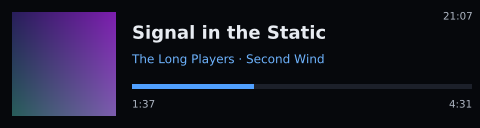
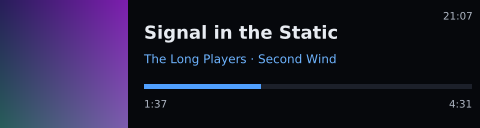
Let the cover art fill the panel's height (#8)
It sat in a 104 pixel square with margins around it; it now runs the full
128 pixels, flush with the left edge, which reads as a player rather than as
a thumbnail. The text beside it loses one character before it is shortened.

Claude-Session: https://claude.ai/code/session_01GQsPfj95fc25BmZD8WJofs

Changed region(s): [[0.0, 0.0, 0.7188, 1.0], [0.5312, 0.6562, 0.5625, 0.6875]]

diff --git a/src/render.rs b/src/render.rs
@@ -39,9 +39,10 @@ const VALUE_TOP: i32 = 33;
 const BAR_TOP: i32 = 68;
 const BAR_HEIGHT: u32 = 5;
 const COLUMN_GAP: i32 = 14;
-/// Side of the cover art, and of the square it is drawn in.
-pub const ART_SIZE: u32 = 104;
-const ART_TOP: i32 = 12;
+/// Side of the cover art: the panel's full height, flush with its left edge.
+pub const ART_SIZE: u32 = HEIGHT;
+/// Room between the cover and the text beside it.
+const ART_GAP: i32 = 16;
 const FAN_BAND_TOP: i32 = 88;
 /// The clock and weather column starts here.
 const RIGHT_COLUMN_LEFT: i32 = 318;
@@ -314,16 +315,12 @@ impl Dashboard {
     ) -> RgbImage {
         let mut canvas = RgbImage::from_pixel(WIDTH, HEIGHT, BACKGROUND);
         let image = &mut canvas;
-        let left = match art {
-            Some(art) => {
-                image::imageops::replace(image, art, i64::from(MARGIN + 4), i64::from(ART_TOP));
-                MARGIN + 4 + ART_SIZE as i32 + 16
-            }
-            None => {
-                rect(image, MARGIN + 4, ART_TOP, ART_SIZE, ART_SIZE, HEADER);
-                MARGIN + 4 + ART_SIZE as i32 + 16
-            }
-        };
+        match art {
+            Some(art) => image::imageops::replace(image, art, 0, 0),
+            // A plain square holds the place until the cover arrives.
+            None => rect(image, 0, 0, ART_SIZE, ART_SIZE, HEADER),
+        }
+        let left = ART_SIZE as i32 + ART_GAP;
         let right = WIDTH as i32 - MARGIN;
         let width = (right - left) as u32;
 
